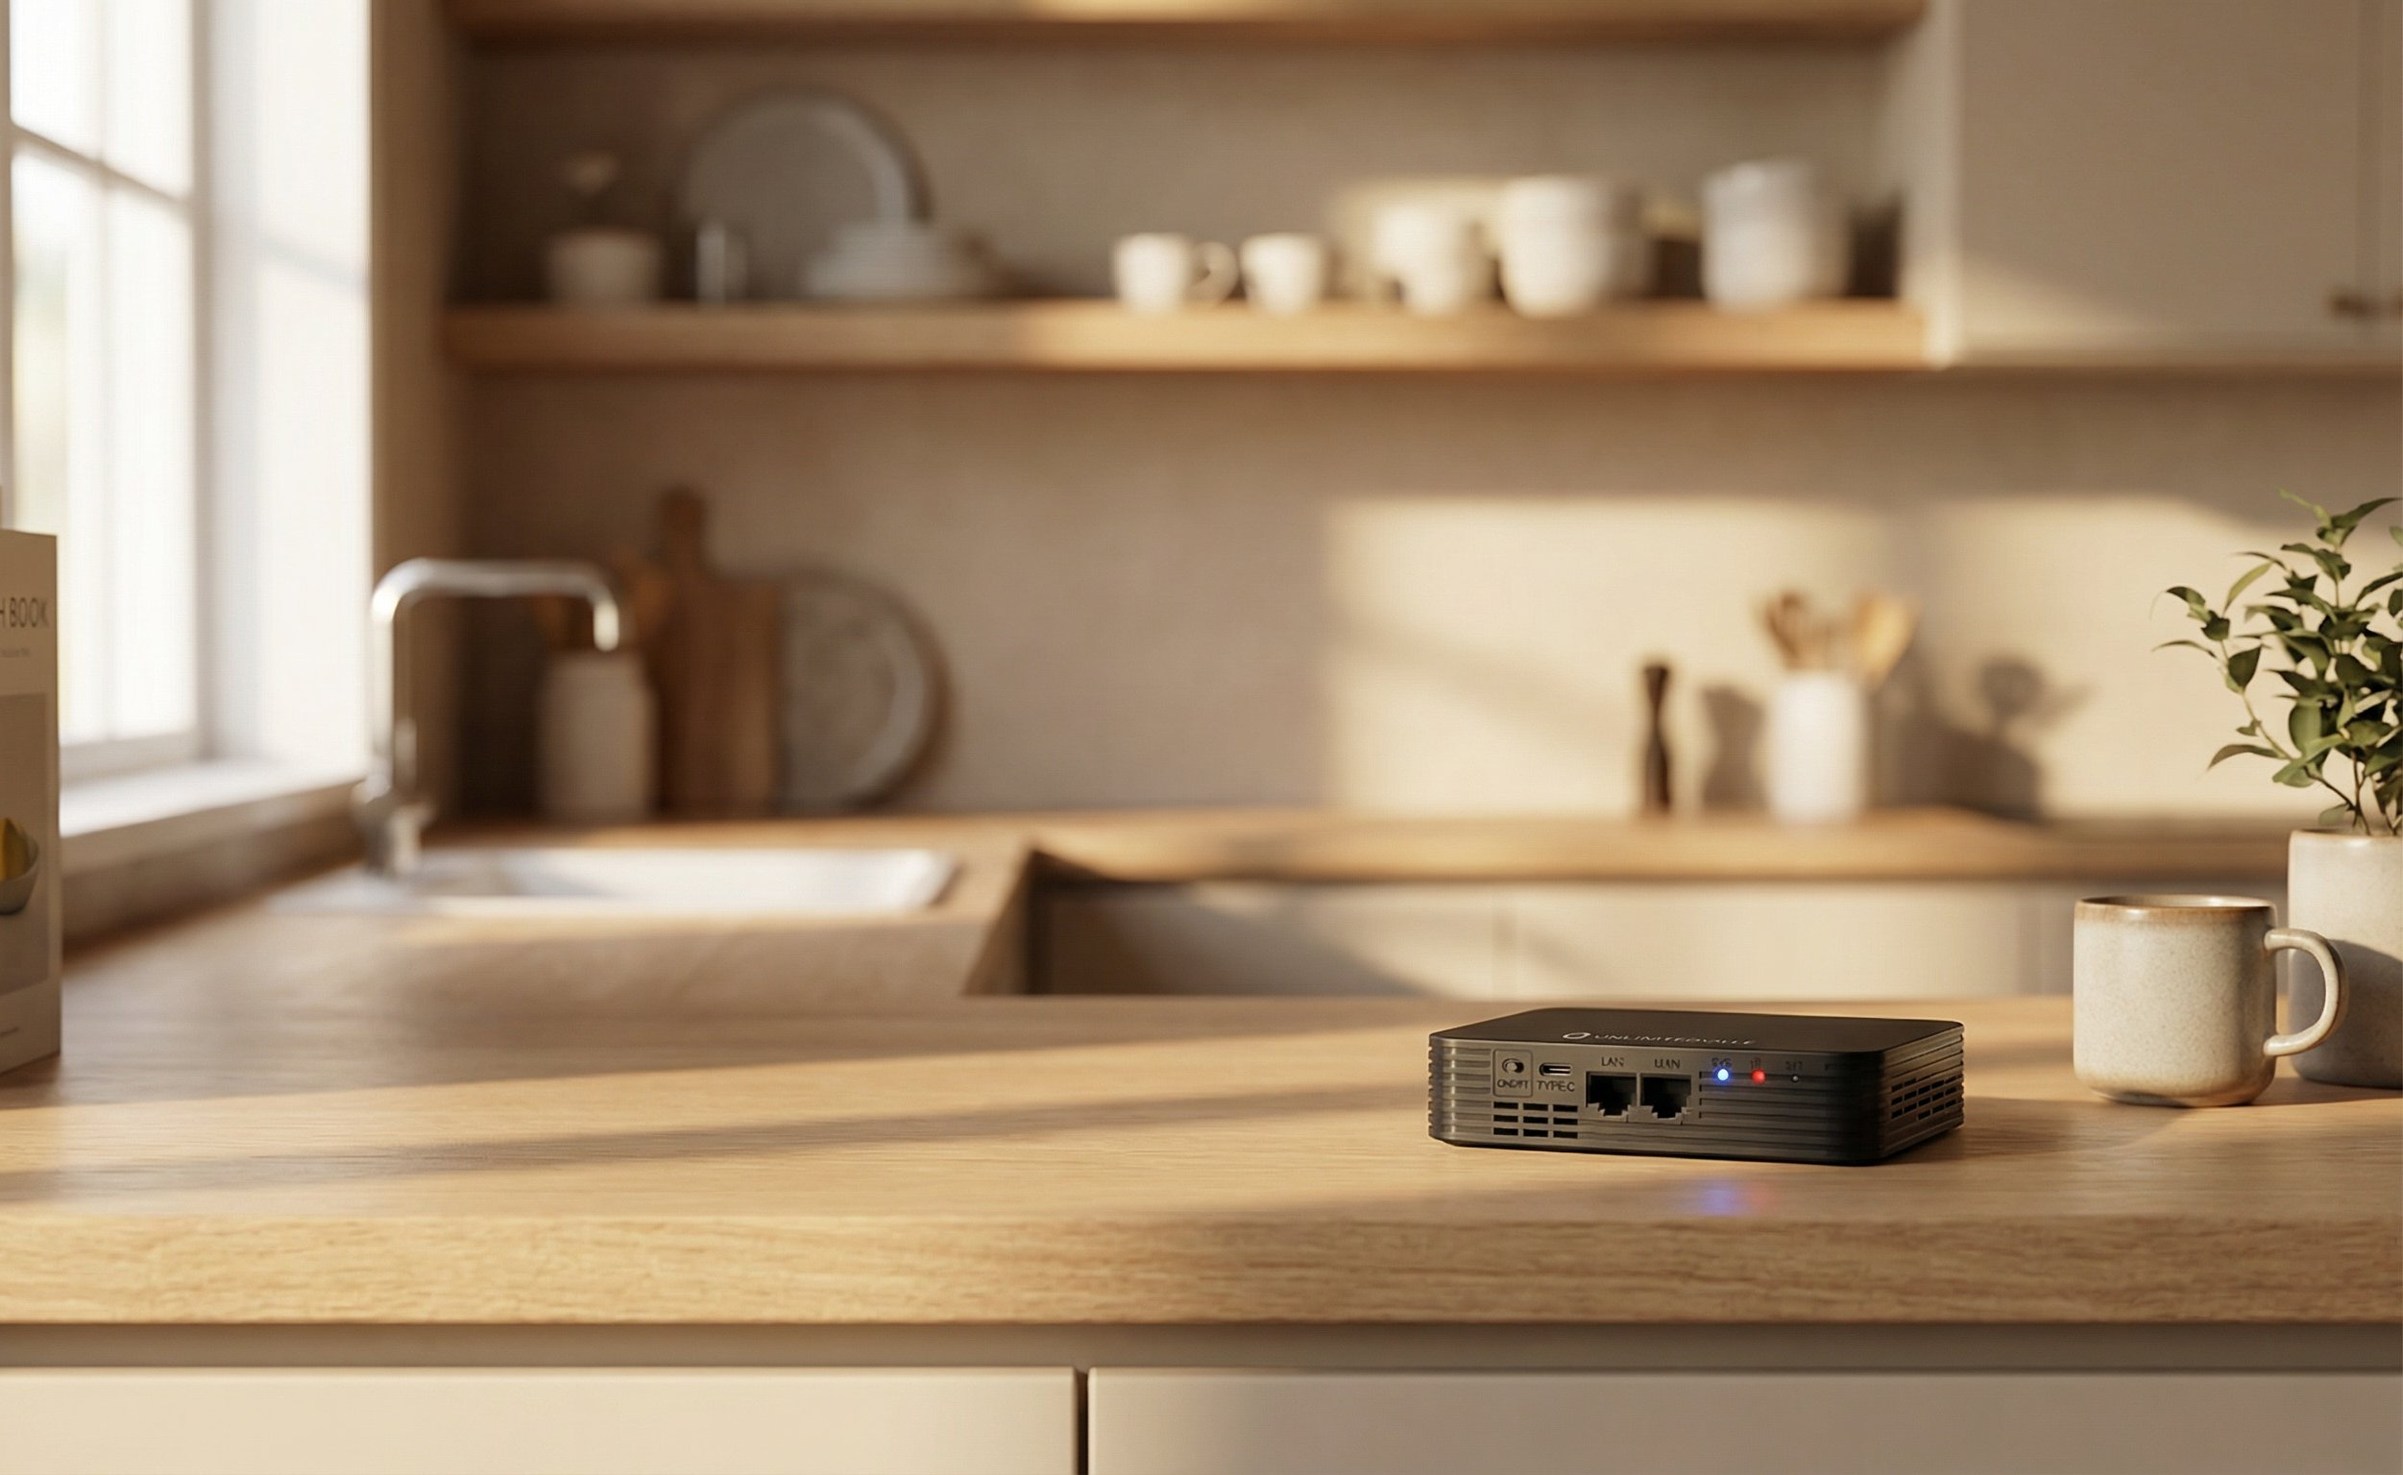
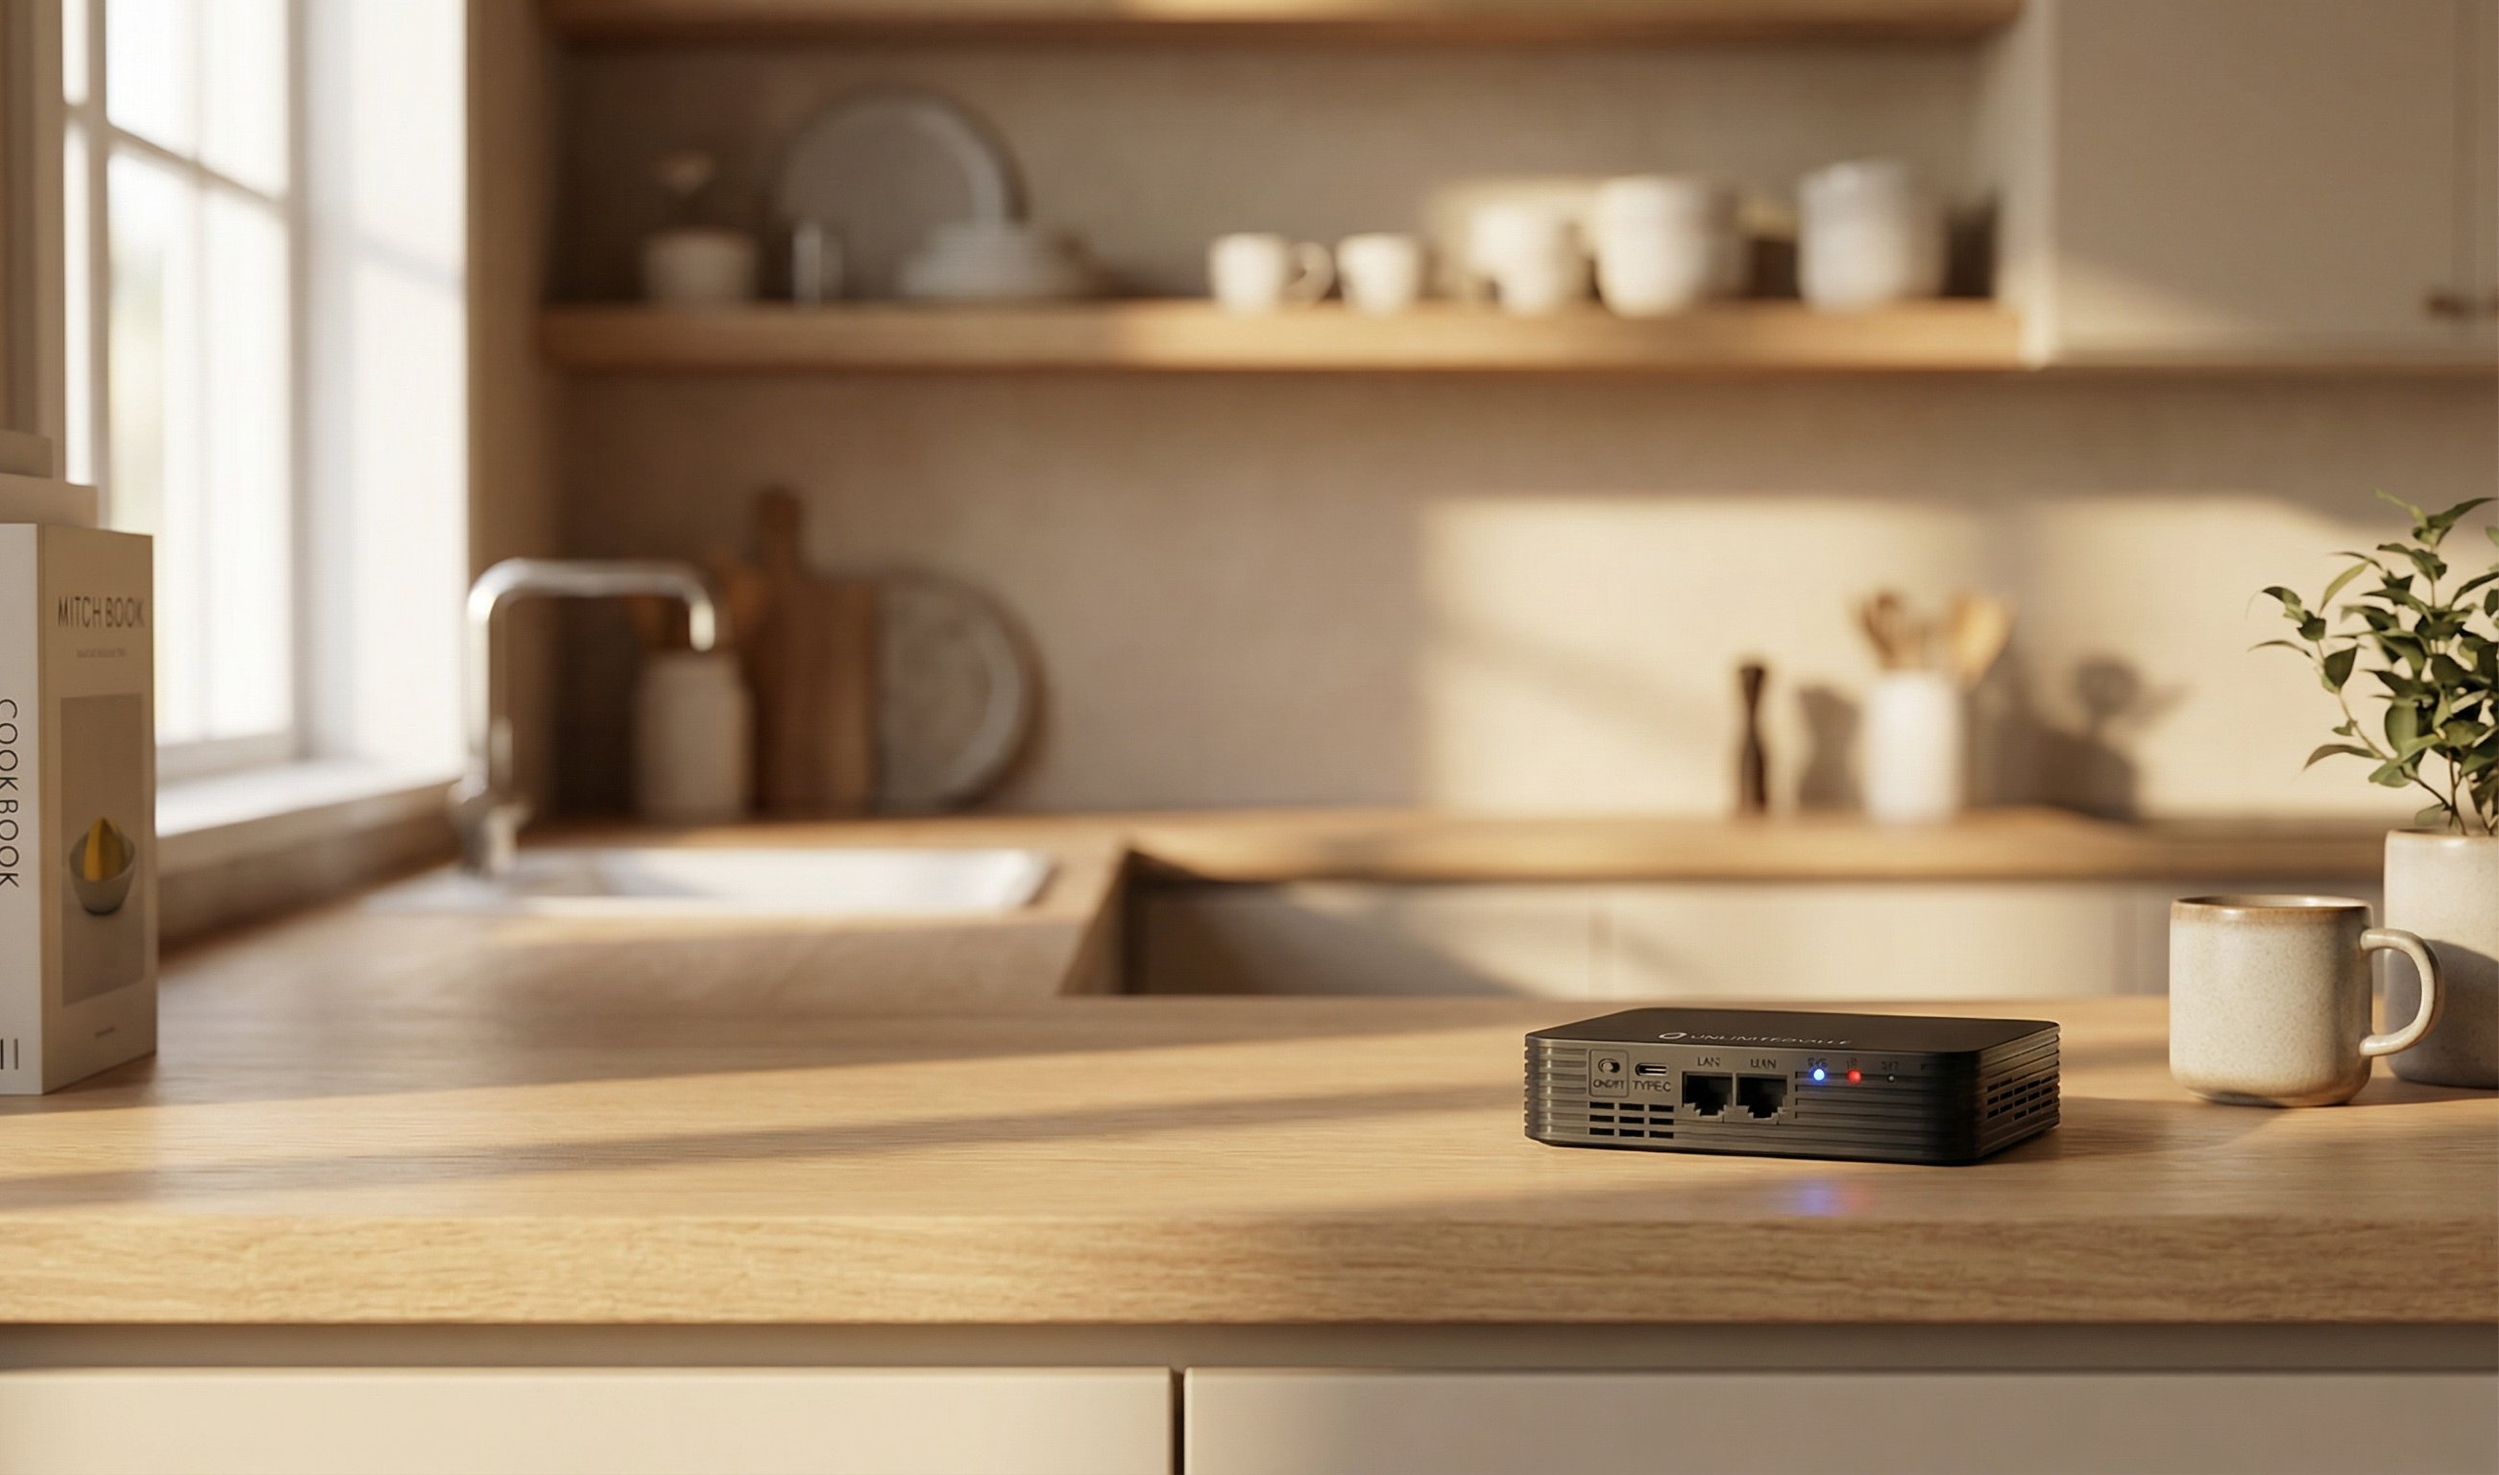
Adjust hero: show 1.5 books, darken overlay, flatten gradient
Crop reduced from 250px to 150px to show more of the books. Overlay
raised to 30-40% base darkness with less gradient variation -- still
darkest at the bottom for text readability.

diff --git a/index.html b/index.html
@@ -1377,7 +1377,7 @@ function PageHero({ title, subtitle, ctaText, ctaAction, bullets, minHeight="92s
   return (
     <section className="hero-section flex flex-col relative overflow-hidden bg-uv-dark" style={{minHeight}}>
       <img src={heroImg || SITE_IMG} alt={imgAlt} className="absolute w-full h-full object-cover" style={{inset:0}} />
-      <div className={`${isLanding ? "lp-hero-gradient" : ""} absolute`} style={{inset:0, background:"linear-gradient(180deg, rgba(10,10,10,0.25) 0%, rgba(10,10,10,0.0) 25%, rgba(10,10,10,0.15) 50%, rgba(10,10,10,0.75) 85%, rgba(10,10,10,0.9) 100%)"}} />
+      <div className={`${isLanding ? "lp-hero-gradient" : ""} absolute`} style={{inset:0, background:"linear-gradient(180deg, rgba(10,10,10,0.4) 0%, rgba(10,10,10,0.3) 30%, rgba(10,10,10,0.35) 55%, rgba(10,10,10,0.7) 80%, rgba(10,10,10,0.9) 100%)"}} />
       <div className={`${isLanding ? "lp-hero-inner" : ""} flex-1 flex flex-col relative z-[1] py-0 px-6`} style={{alignItems:isLanding?undefined:"center", textAlign:isLanding?undefined:"center"}}>
         {/* Reviews badge */}
         <div className={"fade-up fade-up-d2" + (isLanding?" lp-hero-badge":"") + " flex items-center gap-1.5 pt-[112px]"} style={{justifyContent:isLanding?undefined:"center"}}>
@@ -1884,7 +1884,7 @@ function HomePage() {
         ctaText="See Plans & Pricing"
         ctaAction={()=>navigate("plans")}
         bullets={["Ships in 24 hours","Setup takes 5 minutes","21-day money-back guarantee"]}
-        heroImg="assets/images/hero-home.jpg?v=2"
+        heroImg="assets/images/hero-home.jpg?v=3"
         imgAlt="Unlimitedville wireless router on a kitchen counter with natural light"
       />
       <PressStrip border={true} />
